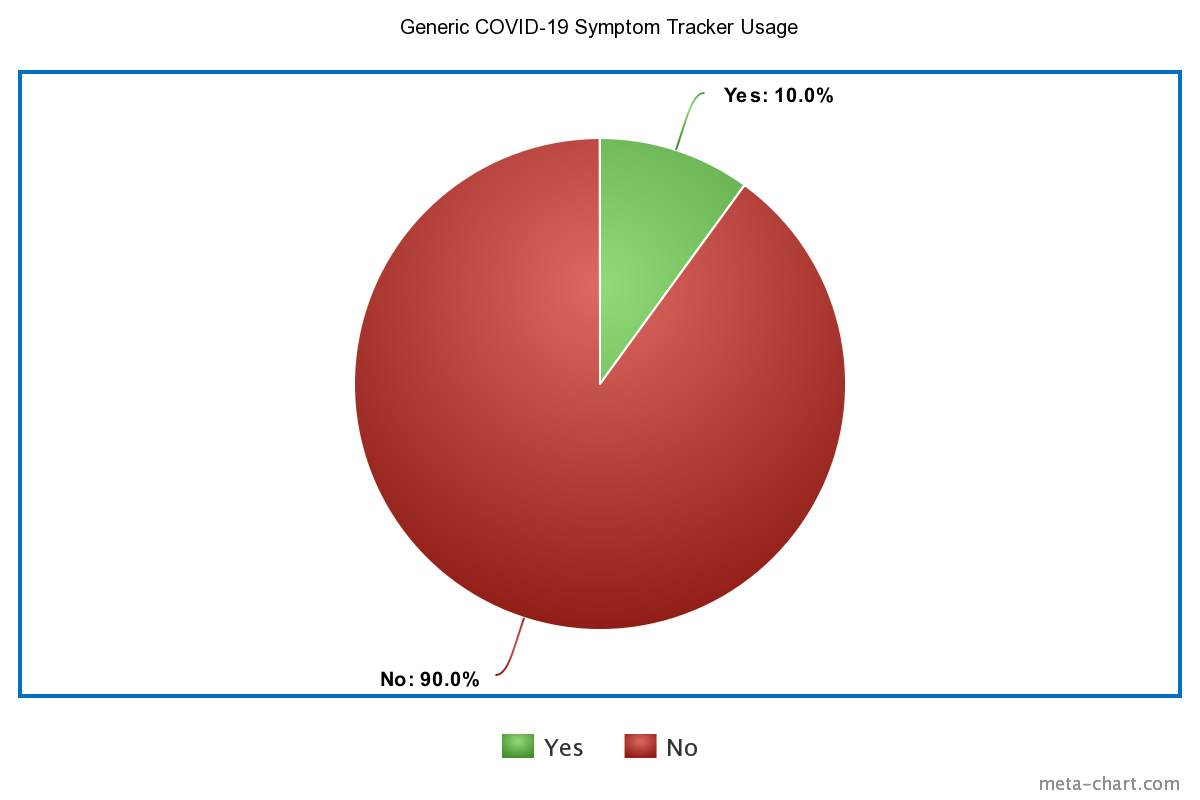
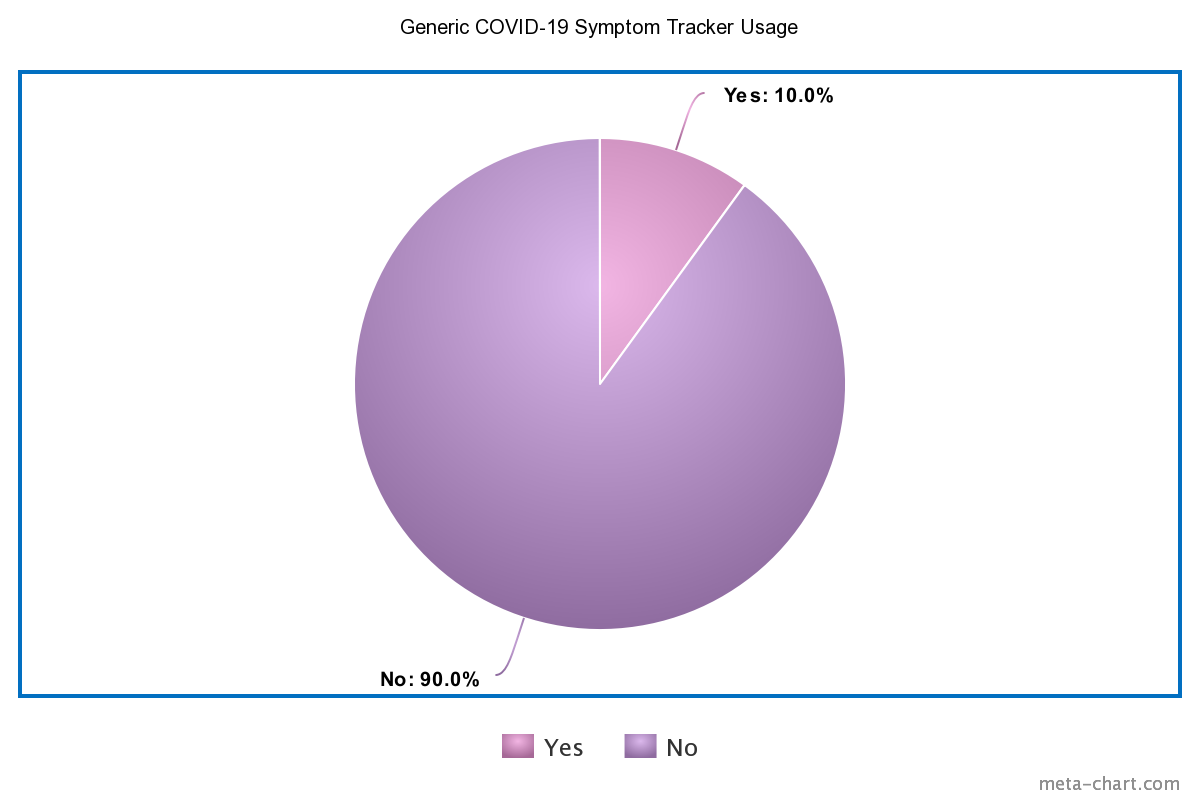
Cast Study All Correct

Changed region(s): [[0.2775, 0.1562, 0.7092, 0.8125], [0.4008, 0.9062, 0.4625, 0.9688], [0.5242, 0.9062, 0.555, 0.9688]]

diff --git a/project-1.html b/project-1.html
@@ -153,6 +153,8 @@
               </p>
               <iframe style="border: 1px solid rgba(0, 0, 0, 0.1);" width="800" height="450" src="https://www.figma.com/embed?embed_host=share&url=https%3A%2F%2Fwww.figma.com%2Ffile%2Fdo2k5o5gUNbMLgCeLTI6n5%2FUntitled%3Fnode-id%3D0%253A1" allowfullscreen></iframe>
               <br>
+              <br>
+              <br>
               <p class="project-details__desc-para">
                 This is the Brainstorm Planning of the functionality of DIVOC.
               </p>
@@ -238,7 +240,7 @@
               <h3 class="project-details__content-title">Overview</h3>
               <p class="project-details__desc-para">
                 Best UI/UX Hack - Rose Hack 2021 Submission: Divoc gamifies the symptom tracking experience for COVID-19 by marking milestones and giving users awards. By being more aware of both one's mental and physical health, Divoc hopes to do its part to reduce the spread of the coronavirus.              </p>
-                <div class="project-details__showcase-img-cont">
+                <div class="project-details__showcase-img-contW">
                   <img
                     src="./assets/png/Winner.png"
                     alt="Project Image"

diff --git a/css/style.css b/css/style.css
@@ -446,6 +446,10 @@ textarea {
   width: 100%;
   margin-bottom: 6rem; }
 
+  .project-details__showcase-img-contW {
+    width: 50%;
+    margin-bottom: 6rem; }
+
 .project-details__showcase-img {
   width: 100%; }
 

diff --git a/sass/abstracts/_variables.scss b/sass/abstracts/_variables.scss
@@ -1,3 +1,3 @@
-$themeClrPrimary:#f071e5;
+$themeClrPrimary:#f5cbdb;
 
 $commonBorderRadius: 5px;
